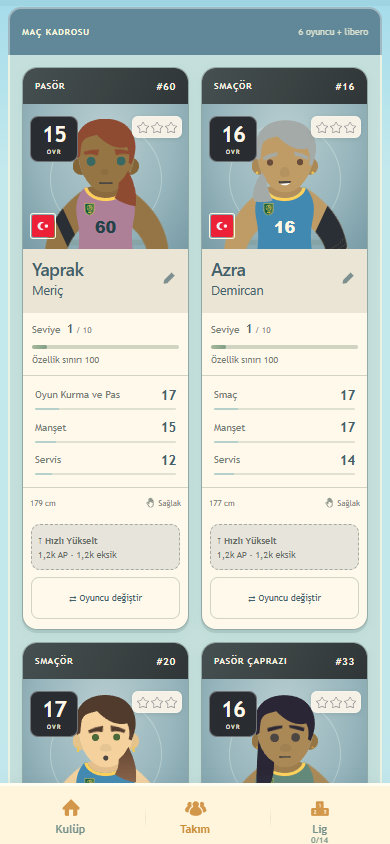
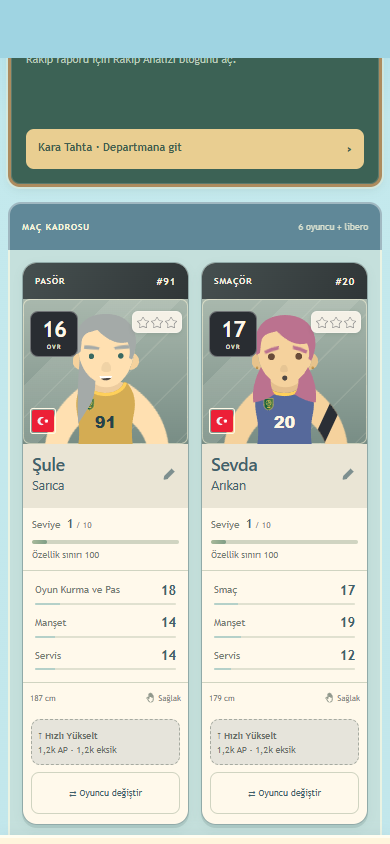
Apply approved poster backdrops across all production card tiers

diff --git a/index-beta.html b/index-beta.html
@@ -1,5 +1,5 @@
 <!doctype html>
-<html lang="tr" class="desktop-beta"><head><script src="desktop-beta-storage.js?v=df309e5c0cea"></script><script src="cheat-defaults.js?v=3f3b429b351f"></script><script src="flow-preview-environment.js?v=bd84173813bd"></script><meta charset="utf-8"><meta name="viewport" content="width=device-width,initial-scale=1,viewport-fit=cover"><meta name="theme-color" content="#72c8e5"><link rel="manifest" href="manifest.webmanifest"><link rel="apple-touch-icon" href="assets/app/apple-touch-icon.png"><meta name="apple-mobile-web-app-capable" content="yes"><meta name="apple-mobile-web-app-title" content="Idle Spiker"><meta name="apple-mobile-web-app-status-bar-style" content="default"><link rel="stylesheet" href="app-display.css?v=07395180a70d"><script src="app-display.js?v=6eab26d2992b" defer></script><title>Idle Spiker · Masaüstü Beta</title><link rel="stylesheet" href="menu.css?v=c016fb44e844"><link rel="stylesheet" href="menu-game.css?v=7f40c8954076"><link rel="stylesheet" href="team.css?v=bcffe6b92c1a"><link rel="stylesheet" href="league-season.css?v=c5e4b44d88a2"><style>#bootScreen{position:fixed;inset:0;max-width:480px;margin-inline:auto;z-index:10000;display:grid;place-content:center;justify-items:center;gap:8px;background:#fff3d7;color:#547c83;font-family:system-ui,sans-serif}#bootScreen strong{order:0;font-size:30px;letter-spacing:2px}#bootScreen strong span{color:#bb995b}#bootScreen p{order:1;font-size:12px;margin:0;color:#819383}#bootPepper{transform:translateZ(0);backface-visibility:hidden;contain:paint;object-fit:contain;order:2;margin-top:12px;visibility:visible;width:260px;height:212px;border:0;background:transparent;pointer-events:none}#bootScreen img{order:-1;margin-bottom:10px;width:48px;height:48px;animation:boot-bounce 1.2s ease-in-out infinite}@keyframes boot-bounce{50%{transform:translateY(-12px) rotate(18deg)}}@media(prefers-reduced-motion:reduce){#bootScreen img{animation:none}}</style><link rel="stylesheet" href="club-journey.css?v=a8162af5edc1"><link rel="stylesheet" href="bal-stage.css?v=03e79f9db703"><script src="season-clock.js?v=c90a74233800"></script><script src="bal-recovery.js?v=59d7a7b23c62"></script><script src="weekly-season-migration.js?v=c91052e58aec"></script><script src="number-ui.js?v=a24b5930e991"></script><link rel="stylesheet" href="theme.css?v=3c0c28bd21fb"><script src="theme.js?v=3046f3da7b5c"></script><link rel="stylesheet" href="achievements.css?v=2a8661c0d2be"><link rel="stylesheet" href="division-three.css?v=ef35af114b54"><link rel="stylesheet" href="social-screen.css?v=0bf69406736d"><link rel="stylesheet" href="league-players.css?v=86e88a43a3b5"><link rel="stylesheet" href="language.css?v=b027c2a552b8"><script src="language-data.js?v=3d3af7f60753"></script><script src="language.js?v=6352cc5dd035"></script><link rel="stylesheet" href="player-skills.css?v=da608137e96c"><link rel="stylesheet" href="styles/ui/player-club-card.css?v=c36082d602ba"><link rel="stylesheet" href="styles/ui/transfer-center.css?v=80c355595696"><script src="scripts/ui/dialog-navigation.js?v=0988251be4a1" defer></script><link rel="stylesheet" href="social-journey.css?v=381c58c2dc22"><link rel="stylesheet" href="next-match-card.css?v=d739901623ff"><link rel="stylesheet" href="social-follower-counter.css?v=038892551d63"><link rel="stylesheet" href="player-profile.css?v=89c574b694fe"><link rel="stylesheet" href="ui-icons.css?v=b5ce6adfd485"><link rel="stylesheet" href="flow-effects.css?v=f82bf838ab8c"><link rel="stylesheet" href="board-doodles.css?v=85c5f17bdbe1"><link rel="stylesheet" href="board-presentation.css?v=3ae360fc348f"><link rel="stylesheet" href="progression-visuals.css?v=abd1b1d35d38"><link rel="stylesheet" href="flow-lanes.css?v=d6d148cc7fd3"><link rel="stylesheet" href="flow-media-theme.css?v=a959430cbe25"><link rel="stylesheet" href="ui-components.css?v=7b2e2900e58c"><link rel="stylesheet" href="academy.css?v=1f7eb14eaf73"><link rel="stylesheet" href="academy-career.css?v=c24b7b8e9637"><link rel="stylesheet" href="legendary-unlock-preview.css?v=247b90f08604"><script src="point-music-rules.js?v=8ce930b25ffd"></script><link rel="stylesheet" href="desktop-beta.css?v=43345844dd65"></head>
+<html lang="tr" class="desktop-beta"><head><script src="desktop-beta-storage.js?v=df309e5c0cea"></script><script src="cheat-defaults.js?v=3f3b429b351f"></script><script src="flow-preview-environment.js?v=bd84173813bd"></script><meta charset="utf-8"><meta name="viewport" content="width=device-width,initial-scale=1,viewport-fit=cover"><meta name="theme-color" content="#72c8e5"><link rel="manifest" href="manifest.webmanifest"><link rel="apple-touch-icon" href="assets/app/apple-touch-icon.png"><meta name="apple-mobile-web-app-capable" content="yes"><meta name="apple-mobile-web-app-title" content="Idle Spiker"><meta name="apple-mobile-web-app-status-bar-style" content="default"><link rel="stylesheet" href="app-display.css?v=07395180a70d"><script src="app-display.js?v=6eab26d2992b" defer></script><title>Idle Spiker · Masaüstü Beta</title><link rel="stylesheet" href="menu.css?v=c016fb44e844"><link rel="stylesheet" href="menu-game.css?v=7f40c8954076"><link rel="stylesheet" href="team.css?v=bcffe6b92c1a"><link rel="stylesheet" href="league-season.css?v=c5e4b44d88a2"><style>#bootScreen{position:fixed;inset:0;max-width:480px;margin-inline:auto;z-index:10000;display:grid;place-content:center;justify-items:center;gap:8px;background:#fff3d7;color:#547c83;font-family:system-ui,sans-serif}#bootScreen strong{order:0;font-size:30px;letter-spacing:2px}#bootScreen strong span{color:#bb995b}#bootScreen p{order:1;font-size:12px;margin:0;color:#819383}#bootPepper{transform:translateZ(0);backface-visibility:hidden;contain:paint;object-fit:contain;order:2;margin-top:12px;visibility:visible;width:260px;height:212px;border:0;background:transparent;pointer-events:none}#bootScreen img{order:-1;margin-bottom:10px;width:48px;height:48px;animation:boot-bounce 1.2s ease-in-out infinite}@keyframes boot-bounce{50%{transform:translateY(-12px) rotate(18deg)}}@media(prefers-reduced-motion:reduce){#bootScreen img{animation:none}}</style><link rel="stylesheet" href="club-journey.css?v=a8162af5edc1"><link rel="stylesheet" href="bal-stage.css?v=03e79f9db703"><script src="season-clock.js?v=c90a74233800"></script><script src="bal-recovery.js?v=59d7a7b23c62"></script><script src="weekly-season-migration.js?v=c91052e58aec"></script><script src="number-ui.js?v=a24b5930e991"></script><link rel="stylesheet" href="theme.css?v=3c0c28bd21fb"><script src="theme.js?v=3046f3da7b5c"></script><link rel="stylesheet" href="achievements.css?v=2a8661c0d2be"><link rel="stylesheet" href="division-three.css?v=ef35af114b54"><link rel="stylesheet" href="social-screen.css?v=0bf69406736d"><link rel="stylesheet" href="league-players.css?v=86e88a43a3b5"><link rel="stylesheet" href="language.css?v=b027c2a552b8"><script src="language-data.js?v=3d3af7f60753"></script><script src="language.js?v=6352cc5dd035"></script><link rel="stylesheet" href="player-skills.css?v=da608137e96c"><link rel="stylesheet" href="styles/ui/player-club-card.css?v=e812955c2ff8"><link rel="stylesheet" href="styles/ui/transfer-center.css?v=80c355595696"><script src="scripts/ui/dialog-navigation.js?v=0988251be4a1" defer></script><link rel="stylesheet" href="social-journey.css?v=381c58c2dc22"><link rel="stylesheet" href="next-match-card.css?v=d739901623ff"><link rel="stylesheet" href="social-follower-counter.css?v=038892551d63"><link rel="stylesheet" href="player-profile.css?v=89c574b694fe"><link rel="stylesheet" href="ui-icons.css?v=b5ce6adfd485"><link rel="stylesheet" href="flow-effects.css?v=f82bf838ab8c"><link rel="stylesheet" href="board-doodles.css?v=85c5f17bdbe1"><link rel="stylesheet" href="board-presentation.css?v=3ae360fc348f"><link rel="stylesheet" href="progression-visuals.css?v=abd1b1d35d38"><link rel="stylesheet" href="flow-lanes.css?v=d6d148cc7fd3"><link rel="stylesheet" href="flow-media-theme.css?v=a959430cbe25"><link rel="stylesheet" href="ui-components.css?v=7b2e2900e58c"><link rel="stylesheet" href="academy.css?v=1f7eb14eaf73"><link rel="stylesheet" href="academy-career.css?v=c24b7b8e9637"><link rel="stylesheet" href="legendary-unlock-preview.css?v=247b90f08604"><script src="point-music-rules.js?v=8ce930b25ffd"></script><link rel="stylesheet" href="desktop-beta.css?v=43345844dd65"></head>
 <body><div id="bootScreen" role="status" aria-live="polite"><img src="assets/balls/atlas-1.png" alt="" width="48" height="48"><strong>IDLE<span>SPIKER</span></strong><p>Kulüp hazırlanıyor…</p></div><script>window.bootStartedAt=performance.now();window.bootFallback=setTimeout(function(){document.getElementById("bootScreen")?.remove()},10000)</script><div class="shell"><aside class="rail"><a class="brand" href="index-beta.html" aria-label="Idle Spiker ana menü"><svg viewBox="0 0 40 40" aria-hidden="true"><circle cx="20" cy="20" r="15"/><path d="M7 13q15 0 18 22M19 5q-5 13-12 19M34 17q-12-3-19 13"/></svg></a><span class="rail-word">IDLE SPIKER</span><a class="rail-icon active" href="index-beta.html" aria-label="Kulüp merkezi" title="Kulüp merkezi">⌂</a><span class="rail-bottom">01 / CLUB</span></aside>
 <div class="content"><header class="topbar"><a href="index-beta.html" class="wordmark">IDLE<span>SPIKER</span><small>VOLEYBOL KULÜBÜ</small></a><nav aria-label="Ana gezinme"><span class="nav-current">Kulüp merkezi</span></nav><button id="settingsButton" class="settings-button" type="button" aria-label="Ayarları aç">⚙ Ayarlar</button></header>
 <main><div class="dashboard"><section id="clubPanel" class="club-panel" aria-label="Kulüp departmanları"><div class="section-top"><div><span class="eyebrow">BİZİM KULÜP · AŞAMA 1</span></div></div>

diff --git a/index.html b/index.html
@@ -1,5 +1,5 @@
 <!doctype html>
-<html lang="tr"><head><script src="cheat-defaults.js?v=3f3b429b351f"></script><script src="flow-preview-environment.js?v=bd84173813bd"></script><meta charset="utf-8"><meta name="viewport" content="width=device-width,initial-scale=1,viewport-fit=cover"><meta name="theme-color" content="#72c8e5"><link rel="manifest" href="manifest.webmanifest"><link rel="apple-touch-icon" href="assets/app/apple-touch-icon.png"><meta name="apple-mobile-web-app-capable" content="yes"><meta name="apple-mobile-web-app-title" content="Idle Spiker"><meta name="apple-mobile-web-app-status-bar-style" content="default"><link rel="stylesheet" href="app-display.css?v=07395180a70d"><script src="app-display.js?v=6eab26d2992b" defer></script><title>Idle Spiker · Kulüp Merkezi</title><link rel="stylesheet" href="menu.css?v=c016fb44e844"><link rel="stylesheet" href="menu-game.css?v=7f40c8954076"><link rel="stylesheet" href="team.css?v=bcffe6b92c1a"><link rel="stylesheet" href="league-season.css?v=c5e4b44d88a2"><style>#bootScreen{position:fixed;inset:0;max-width:480px;margin-inline:auto;z-index:10000;display:grid;place-content:center;justify-items:center;gap:8px;background:#fff3d7;color:#547c83;font-family:system-ui,sans-serif}#bootScreen strong{order:0;font-size:30px;letter-spacing:2px}#bootScreen strong span{color:#bb995b}#bootScreen p{order:1;font-size:12px;margin:0;color:#819383}#bootPepper{transform:translateZ(0);backface-visibility:hidden;contain:paint;object-fit:contain;order:2;margin-top:12px;visibility:visible;width:260px;height:212px;border:0;background:transparent;pointer-events:none}#bootScreen img{order:-1;margin-bottom:10px;width:48px;height:48px;animation:boot-bounce 1.2s ease-in-out infinite}@keyframes boot-bounce{50%{transform:translateY(-12px) rotate(18deg)}}@media(prefers-reduced-motion:reduce){#bootScreen img{animation:none}}</style><link rel="stylesheet" href="club-journey.css?v=a8162af5edc1"><link rel="stylesheet" href="bal-stage.css?v=03e79f9db703"><script src="season-clock.js?v=c90a74233800"></script><script src="bal-recovery.js?v=59d7a7b23c62"></script><script src="weekly-season-migration.js?v=c91052e58aec"></script><script src="number-ui.js?v=a24b5930e991"></script><link rel="stylesheet" href="theme.css?v=3c0c28bd21fb"><script src="theme.js?v=3046f3da7b5c"></script><link rel="stylesheet" href="achievements.css?v=2a8661c0d2be"><link rel="stylesheet" href="division-three.css?v=ef35af114b54"><link rel="stylesheet" href="social-screen.css?v=0bf69406736d"><link rel="stylesheet" href="league-players.css?v=86e88a43a3b5"><link rel="stylesheet" href="language.css?v=b027c2a552b8"><script src="language-data.js?v=3d3af7f60753"></script><script src="language.js?v=6352cc5dd035"></script><link rel="stylesheet" href="player-skills.css?v=da608137e96c"><link rel="stylesheet" href="styles/ui/player-club-card.css?v=c36082d602ba"><link rel="stylesheet" href="styles/ui/transfer-center.css?v=80c355595696"><script src="scripts/ui/dialog-navigation.js?v=0988251be4a1" defer></script><link rel="stylesheet" href="social-journey.css?v=381c58c2dc22"><link rel="stylesheet" href="next-match-card.css?v=d739901623ff"><link rel="stylesheet" href="social-follower-counter.css?v=038892551d63"><link rel="stylesheet" href="player-profile.css?v=89c574b694fe"><link rel="stylesheet" href="ui-icons.css?v=b5ce6adfd485"><link rel="stylesheet" href="flow-effects.css?v=f82bf838ab8c"><link rel="stylesheet" href="board-doodles.css?v=85c5f17bdbe1"><link rel="stylesheet" href="board-presentation.css?v=3ae360fc348f"><link rel="stylesheet" href="progression-visuals.css?v=abd1b1d35d38"><link rel="stylesheet" href="flow-lanes.css?v=d6d148cc7fd3"><link rel="stylesheet" href="flow-media-theme.css?v=a959430cbe25"><link rel="stylesheet" href="ui-components.css?v=7b2e2900e58c"><link rel="stylesheet" href="academy.css?v=1f7eb14eaf73"><link rel="stylesheet" href="academy-career.css?v=c24b7b8e9637"><link rel="stylesheet" href="legendary-unlock-preview.css?v=247b90f08604"><script src="point-music-rules.js?v=8ce930b25ffd"></script><link rel="stylesheet" href="playtest-recorder.css?v=6bbab40bb134"></head>
+<html lang="tr"><head><script src="cheat-defaults.js?v=3f3b429b351f"></script><script src="flow-preview-environment.js?v=bd84173813bd"></script><meta charset="utf-8"><meta name="viewport" content="width=device-width,initial-scale=1,viewport-fit=cover"><meta name="theme-color" content="#72c8e5"><link rel="manifest" href="manifest.webmanifest"><link rel="apple-touch-icon" href="assets/app/apple-touch-icon.png"><meta name="apple-mobile-web-app-capable" content="yes"><meta name="apple-mobile-web-app-title" content="Idle Spiker"><meta name="apple-mobile-web-app-status-bar-style" content="default"><link rel="stylesheet" href="app-display.css?v=07395180a70d"><script src="app-display.js?v=6eab26d2992b" defer></script><title>Idle Spiker · Kulüp Merkezi</title><link rel="stylesheet" href="menu.css?v=c016fb44e844"><link rel="stylesheet" href="menu-game.css?v=7f40c8954076"><link rel="stylesheet" href="team.css?v=bcffe6b92c1a"><link rel="stylesheet" href="league-season.css?v=c5e4b44d88a2"><style>#bootScreen{position:fixed;inset:0;max-width:480px;margin-inline:auto;z-index:10000;display:grid;place-content:center;justify-items:center;gap:8px;background:#fff3d7;color:#547c83;font-family:system-ui,sans-serif}#bootScreen strong{order:0;font-size:30px;letter-spacing:2px}#bootScreen strong span{color:#bb995b}#bootScreen p{order:1;font-size:12px;margin:0;color:#819383}#bootPepper{transform:translateZ(0);backface-visibility:hidden;contain:paint;object-fit:contain;order:2;margin-top:12px;visibility:visible;width:260px;height:212px;border:0;background:transparent;pointer-events:none}#bootScreen img{order:-1;margin-bottom:10px;width:48px;height:48px;animation:boot-bounce 1.2s ease-in-out infinite}@keyframes boot-bounce{50%{transform:translateY(-12px) rotate(18deg)}}@media(prefers-reduced-motion:reduce){#bootScreen img{animation:none}}</style><link rel="stylesheet" href="club-journey.css?v=a8162af5edc1"><link rel="stylesheet" href="bal-stage.css?v=03e79f9db703"><script src="season-clock.js?v=c90a74233800"></script><script src="bal-recovery.js?v=59d7a7b23c62"></script><script src="weekly-season-migration.js?v=c91052e58aec"></script><script src="number-ui.js?v=a24b5930e991"></script><link rel="stylesheet" href="theme.css?v=3c0c28bd21fb"><script src="theme.js?v=3046f3da7b5c"></script><link rel="stylesheet" href="achievements.css?v=2a8661c0d2be"><link rel="stylesheet" href="division-three.css?v=ef35af114b54"><link rel="stylesheet" href="social-screen.css?v=0bf69406736d"><link rel="stylesheet" href="league-players.css?v=86e88a43a3b5"><link rel="stylesheet" href="language.css?v=b027c2a552b8"><script src="language-data.js?v=3d3af7f60753"></script><script src="language.js?v=6352cc5dd035"></script><link rel="stylesheet" href="player-skills.css?v=da608137e96c"><link rel="stylesheet" href="styles/ui/player-club-card.css?v=e812955c2ff8"><link rel="stylesheet" href="styles/ui/transfer-center.css?v=80c355595696"><script src="scripts/ui/dialog-navigation.js?v=0988251be4a1" defer></script><link rel="stylesheet" href="social-journey.css?v=381c58c2dc22"><link rel="stylesheet" href="next-match-card.css?v=d739901623ff"><link rel="stylesheet" href="social-follower-counter.css?v=038892551d63"><link rel="stylesheet" href="player-profile.css?v=89c574b694fe"><link rel="stylesheet" href="ui-icons.css?v=b5ce6adfd485"><link rel="stylesheet" href="flow-effects.css?v=f82bf838ab8c"><link rel="stylesheet" href="board-doodles.css?v=85c5f17bdbe1"><link rel="stylesheet" href="board-presentation.css?v=3ae360fc348f"><link rel="stylesheet" href="progression-visuals.css?v=abd1b1d35d38"><link rel="stylesheet" href="flow-lanes.css?v=d6d148cc7fd3"><link rel="stylesheet" href="flow-media-theme.css?v=a959430cbe25"><link rel="stylesheet" href="ui-components.css?v=7b2e2900e58c"><link rel="stylesheet" href="academy.css?v=1f7eb14eaf73"><link rel="stylesheet" href="academy-career.css?v=c24b7b8e9637"><link rel="stylesheet" href="legendary-unlock-preview.css?v=247b90f08604"><script src="point-music-rules.js?v=8ce930b25ffd"></script><link rel="stylesheet" href="playtest-recorder.css?v=6bbab40bb134"></head>
 <body><div id="bootScreen" role="status" aria-live="polite"><img src="assets/balls/atlas-1.png" alt="" width="48" height="48"><strong>IDLE<span>SPIKER</span></strong><p>Kulüp hazırlanıyor…</p></div><script>window.bootStartedAt=performance.now();window.bootFallback=setTimeout(function(){document.getElementById("bootScreen")?.remove()},10000)</script><div class="shell"><aside class="rail"><a class="brand" href="index.html" aria-label="Idle Spiker ana menü"><svg viewBox="0 0 40 40" aria-hidden="true"><circle cx="20" cy="20" r="15"/><path d="M7 13q15 0 18 22M19 5q-5 13-12 19M34 17q-12-3-19 13"/></svg></a><span class="rail-word">IDLE SPIKER</span><a class="rail-icon active" href="index.html" aria-label="Kulüp merkezi" title="Kulüp merkezi">⌂</a><span class="rail-bottom">01 / CLUB</span></aside>
 <div class="content"><header class="topbar"><a href="index.html" class="wordmark">IDLE<span>SPIKER</span><small>VOLEYBOL KULÜBÜ</small></a><nav aria-label="Ana gezinme"><span class="nav-current">Kulüp merkezi</span></nav><button id="settingsButton" class="settings-button" type="button" aria-label="Ayarları aç">⚙ Ayarlar</button></header>
 <main><div class="dashboard"><section id="clubPanel" class="club-panel" aria-label="Kulüp departmanları"><div class="section-top"><div><span class="eyebrow">BİZİM KULÜP · AŞAMA 1</span></div></div>

diff --git a/card-design-preview.html b/card-design-preview.html
@@ -1,1 +1,1 @@
-<!doctype html><html lang="tr" class="elite-preview-page"><head><meta charset="utf-8"><meta name="viewport" content="width=device-width,initial-scale=1"><title>Oyuncu kartı tasarımları</title><link rel="stylesheet" href="team.css?v=bcffe6b92c1a"><link rel="stylesheet" href="styles/ui/player-club-card.css?v=c36082d602ba"><link rel="stylesheet" href="styles/ui/transfer-center.css?v=80c355595696"><link rel="stylesheet" href="ui-components.css?v=7b2e2900e58c"><link rel="stylesheet" href="elite-design-preview.css?v=8690d2b240a5"></head><body><main id="scoutDialog"><section aria-labelledby="cardSeriesTitle"><header class="card-lab-heading"><small>KARTIN GÖRSEL GELİŞİMİ</small><h2 id="cardSeriesTitle">Siyah · Gümüş · Altın · Mor</h2><p>Aynı oyuncu ve aynı OVR. Aşamalar, kartın görünüşünü karşılaştırmak içindir.</p></header><div id="cardProgression" class="card-lab-grid"></div></section><section aria-labelledby="potentialTitle"><header class="card-lab-heading"><small>AKADEMİ · POTANSİYELLİ GENÇLER</small><h2 id="potentialTitle">Geleceği henüz belli değil.</h2><p>Şimdiki OVR görünür. Mezuniyet gücü: ???</p></header><div id="eliteOptions" class="card-lab-grid"></div></section></main><script src="ui-icons-data.js?v=6804bbcfcd59"></script><script src="prospect-potential-rules.js?v=d08455300ece"></script><script src="player-card-presentation.js?v=ab24a8ee8f09"></script><script src="card-lab-template.js?v=f9ce24745e08"></script><script src="elite-design-preview.js?v=c67fcf020e1e"></script></body></html>
+<!doctype html><html lang="tr" class="elite-preview-page"><head><meta charset="utf-8"><meta name="viewport" content="width=device-width,initial-scale=1"><title>Oyuncu kartı tasarımları</title><link rel="stylesheet" href="team.css?v=bcffe6b92c1a"><link rel="stylesheet" href="styles/ui/player-club-card.css?v=e812955c2ff8"><link rel="stylesheet" href="styles/ui/transfer-center.css?v=80c355595696"><link rel="stylesheet" href="ui-components.css?v=7b2e2900e58c"><link rel="stylesheet" href="elite-design-preview.css?v=8690d2b240a5"></head><body><main id="scoutDialog"><section aria-labelledby="cardSeriesTitle"><header class="card-lab-heading"><small>KARTIN GÖRSEL GELİŞİMİ</small><h2 id="cardSeriesTitle">Siyah · Gümüş · Altın · Mor</h2><p>Aynı oyuncu ve aynı OVR. Aşamalar, kartın görünüşünü karşılaştırmak içindir.</p></header><div id="cardProgression" class="card-lab-grid"></div></section><section aria-labelledby="potentialTitle"><header class="card-lab-heading"><small>AKADEMİ · POTANSİYELLİ GENÇLER</small><h2 id="potentialTitle">Geleceği henüz belli değil.</h2><p>Şimdiki OVR görünür. Mezuniyet gücü: ???</p></header><div id="eliteOptions" class="card-lab-grid"></div></section></main><script src="ui-icons-data.js?v=6804bbcfcd59"></script><script src="prospect-potential-rules.js?v=d08455300ece"></script><script src="player-card-presentation.js?v=ab24a8ee8f09"></script><script src="card-lab-template.js?v=f9ce24745e08"></script><script src="elite-design-preview.js?v=c67fcf020e1e"></script></body></html>

diff --git a/styles/ui/player-club-card.css b/styles/ui/player-club-card.css
@@ -192,9 +192,14 @@ html body #teamPanel .player-card:is([data-card-tier="3"],.elite-player){--quick
 html body #teamPanel .player-card .card-open-upgrade small{color:inherit!important}
 html[data-theme=dark] body #teamPanel .player-card .card-open-upgrade:disabled{background:#344344!important;border-color:#718281!important;color:#c1cac4!important}
 
-/* Cool gym backdrop keeps warm skin tones distinct across card materials. */
-html:not(.elite-preview-page) .player-card.player-card .card-art{background:radial-gradient(ellipse at 50% 22%,#b8ced0 0%,#98b6bd 58%,#789ba6 100%)!important}
-html:not(.elite-preview-page) .player-card.player-card.elite-player .card-art{background:radial-gradient(ellipse at 50% 22%,#cbd0df 0%,#acb4cc 58%,#939fbc 100%)!important}
-html:not(.elite-preview-page) .player-card.player-card .card-halo{background:transparent;border-color:#eef6ee55}
-html[data-theme=dark]:not(.elite-preview-page) .player-card.player-card .card-art{background:radial-gradient(ellipse at 50% 22%,#8ba8b3 0%,#6b8d9b 58%,#527384 100%)!important}
-html[data-theme=dark]:not(.elite-preview-page) .player-card.player-card.elite-player .card-art{background:radial-gradient(ellipse at 50% 22%,#a4adc8 0%,#858eaf 58%,#6b789d 100%)!important}
+/* Approved C set: material-specific club poster backdrops. Shared by roster and transfer cards. */
+html:not(.elite-preview-page) .player-card{--portrait-light:#a9b8ad;--portrait-deep:#788d85}
+html:not(.elite-preview-page) .player-card[data-card-tier="1"]{--portrait-light:#afc3d2;--portrait-deep:#7b94ac}
+html:not(.elite-preview-page) .player-card[data-card-tier="2"]{--portrait-light:#c3b286;--portrait-deep:#958554}
+html:not(.elite-preview-page) .player-card:is([data-card-tier="3"],.elite-player){--portrait-light:#baabcc;--portrait-deep:#8a76a3}
+html:not(.elite-preview-page) .player-card[data-prospect="unknown"]{--portrait-light:#c6aa92;--portrait-deep:#a27f65}
+html:not(.elite-preview-page) .player-card.player-card .card-art{background:linear-gradient(var(--portrait-light),var(--portrait-deep))!important;isolation:isolate}
+html:not(.elite-preview-page) .player-card.player-card .card-art::before{content:'';display:block;position:absolute;inset:0;z-index:0;pointer-events:none;background:linear-gradient(135deg,transparent 28%,#f6f9eb20 28%,#f6f9eb20 51%,transparent 51%),repeating-linear-gradient(135deg,transparent 0 40px,#fff9e51c 41px 42px)}
+html:not(.elite-preview-page) .player-card.player-card .card-halo,html:not(.elite-preview-page) .player-card.player-card .card-art::after{display:none!important}
+#scoutDialog .player-card>button.scout-compare{background:transparent!important;border:0!important;box-shadow:none!important;color:var(--club-ink)!important}
+#scoutDialog .player-card>.scout-hire:disabled{background:transparent!important;border:1px solid var(--club-line)!important;box-shadow:none!important;color:var(--club-muted)!important;opacity:.6;font-weight:500!important}

diff --git a/DESIGN-SYSTEM.md b/DESIGN-SYSTEM.md
@@ -1005,3 +1005,7 @@ Ek doğrulama: test-request-followups.cjs gerçek sosyal medya işiyle geçişte
 29 Ekim portre arka plan taslakları: player-card-design-lab-v3.html#portrait-background-lab içinde üç set vardır: A Salon duvarı, B Maç ışığı, C Kulüp afişi. Her sette siyah/gümüş/altın/mor/potansiyel için ayrı palet, aynı gerçek portre ve kart anatomisi kullanılır. Ten ve tema karşılaştırması ile taslak seçimi vardır. Üretim zemini değiştirilmez; önizleme oyun motoru veya kayıt yüklemez.
 
 29 Ekim arka plan taslağı tutarlılığı: Mor kartın eski elit stilinden gelen dolu transfer düğmesi ve kutulu karşılaştırma alanı yalnız arka plan laboratuvarında ortak kart görünümüyle eşitlendi. Renk kimliği korunur; diğer kartlarla aynı eylem hiyerarşisi ve disabled görünümü vardır. Set C doğrudan portrait-background-preview.html#background-set-C ile açılır.
+
+29 Ekim üretim onayı: C — Kulüp afişi tüm üretim oyuncu kartlarında aktif. Siyah adaçayı-grafit, gümüş çelik mavi, altın mat altın, mor lavanta, potansiyel sıcak bakır paletindedir. Zemin üstünde hafif diyagonal alan/çizgiler vardır; statik CSS, yeni resim veya animasyon yoktur. Açık/koyu temada portre paleti sabit kalır, kart gövdesi mevcut tema kurallarını izler. Halo ve eski taban gölgesi kaldırılır. Arka plan katmanı z-index 0, portre 1, OVR/yıldızlar 3; pointer-events none. Transferde morun kapalı düğmesi ve karşılaştırma düğmesi ortak stille eşitlenir; aktif satın alma/yükseltme durumları korunur.
+
+Üretim doğrulaması: test-production-card-backdrops.cjs gerçek TeamView.transferCard ile beş farklı zemin, her kartta diyagonal/noninteractive katman, açık/koyu tema ve 320/390px içerik taşması kontrolünü geçti. test-card-tiers-and-prospects.cjs kademe/yıldız ve transfer karşılaştırmasında gizli bilgiyi; test-player-jersey-front.cjs gerçek BAL kadrosunu geçti. card-backdrops-production-light/dark.png ve jersey-roster-mobile.png incelendi.
